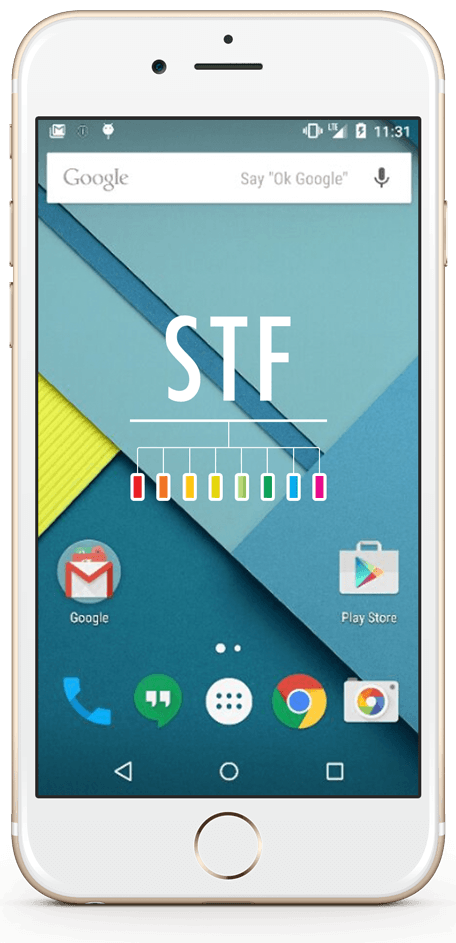
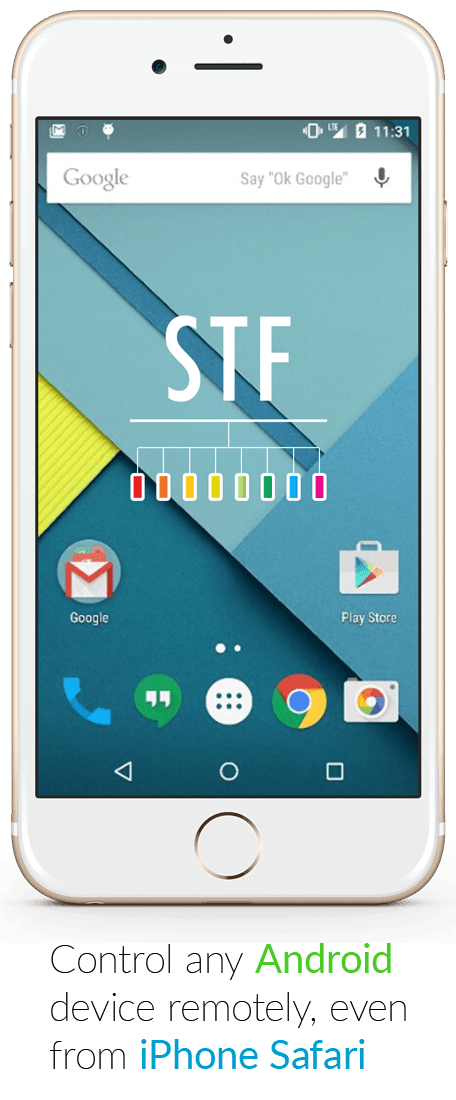
Add text explaining iPhone 6 image. Closes #2

diff --git a/index.html b/index.html
@@ -415,8 +415,9 @@
                     </div>
                 </div>
                 <div class="col-md-4 col-sm-4">
-                    <img src="assets/img/freeze/iphone-freeze-456.png"
-                         class="img-responsive scrollpoint sp-effect5" alt=""
+                    <img src="assets/img/freeze/iphone-freeze-456.png?v2"
+                         class="img-responsive scrollpoint sp-effect5"
+                         alt="Control any Android device remotely, even from iPhone Safari"
                             width="228px">
                 </div>
                 <div class="col-md-4 col-sm-4 scrollpoint sp-effect2">
